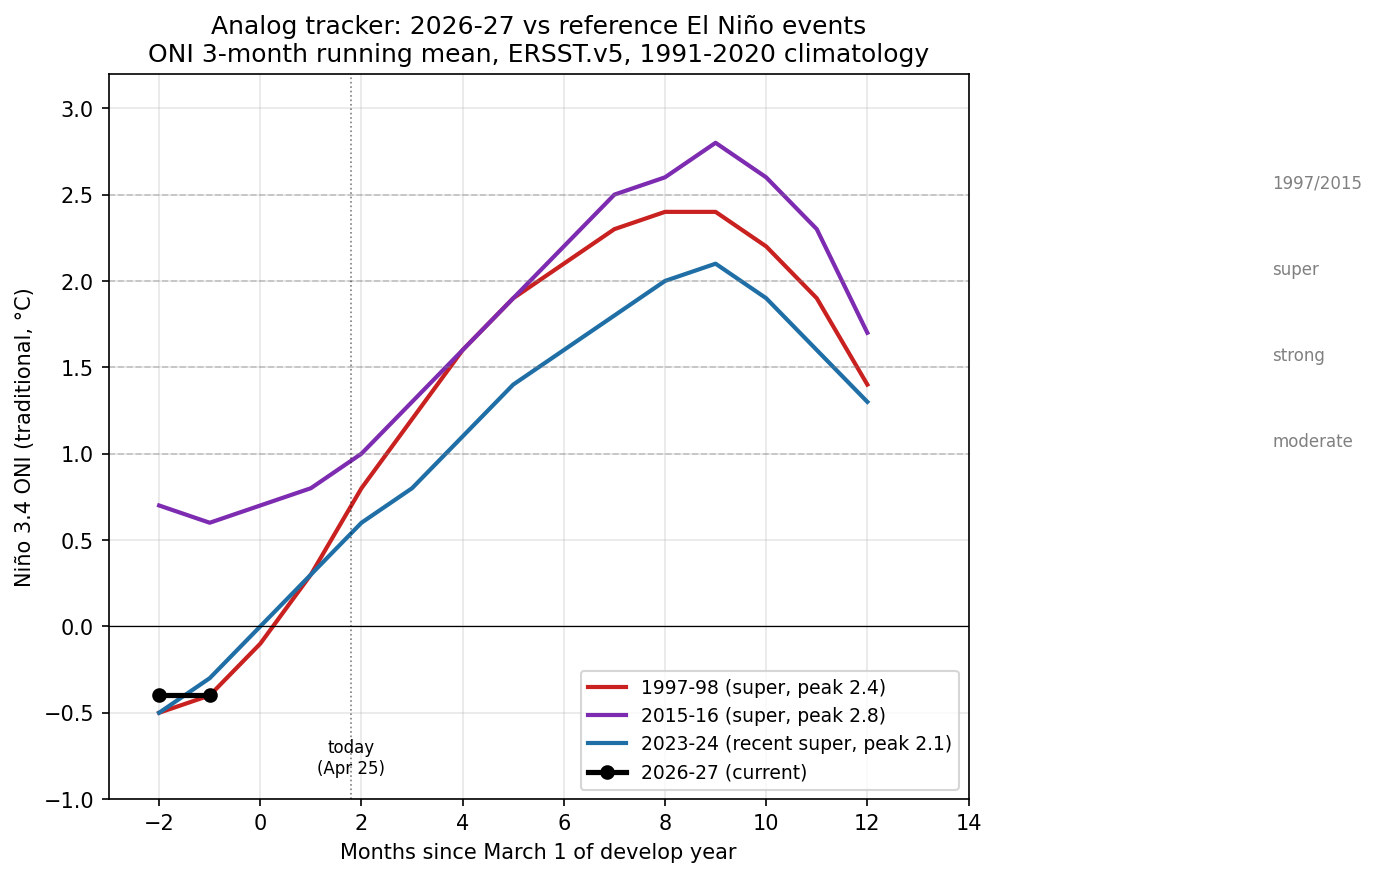
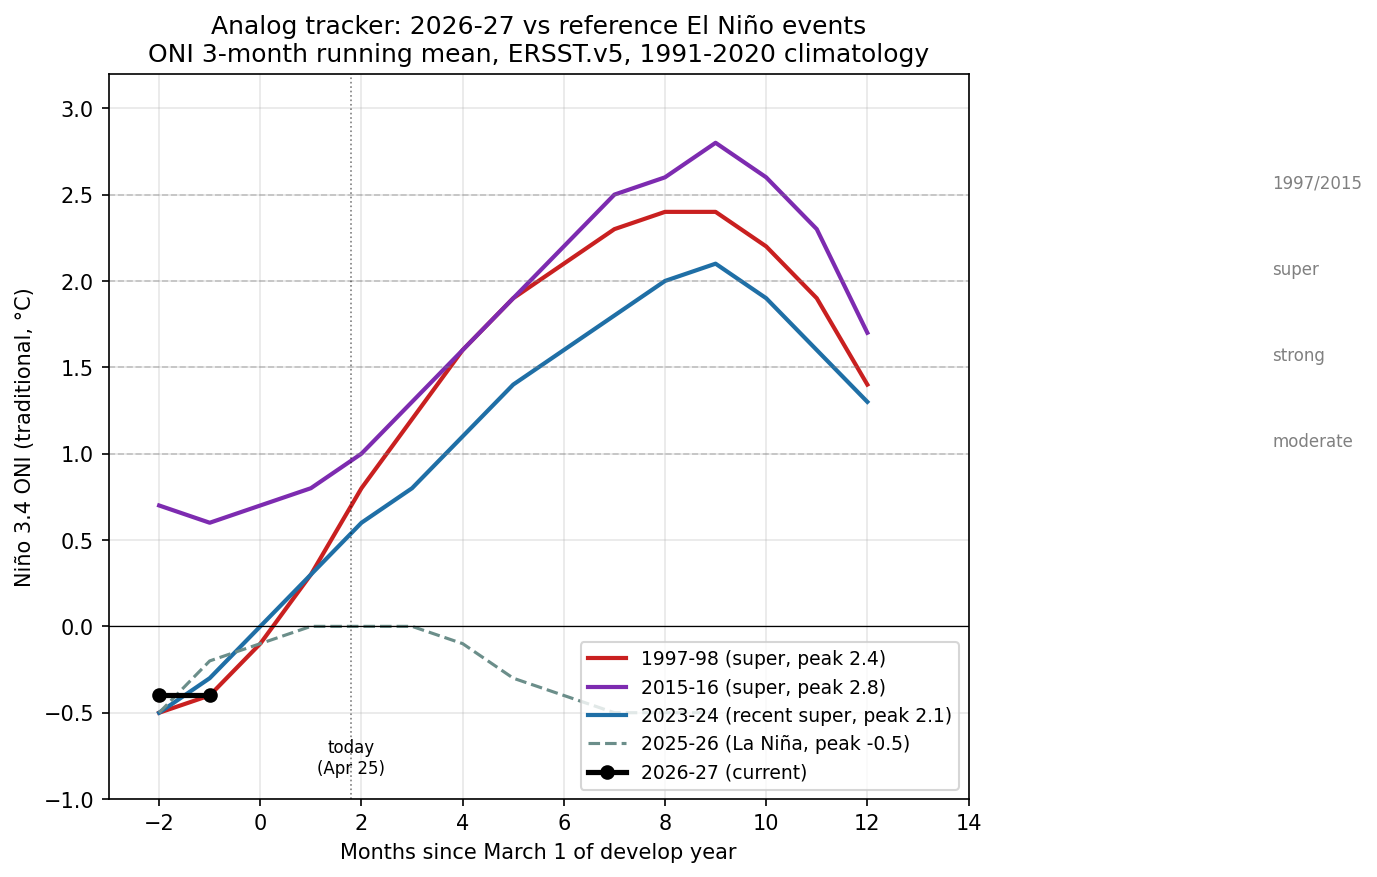
analog: add 2025-26 La Niña trace as a non-developing-year reference
Sourced 2025 ONI from CPC's oni.ascii.txt feed and appended 12
develop-year rows (DJF 2025 through NDJ 2025) to the historical
dataset. The 2024-25 winter was La Niña, peak around -0.5, so the
2025 trajectory plots as a flat negative trace through the
develop-year window. Useful negative-control context next to the
three super-event peers.

Style: muted blue-gray dashed line (1.5 px) to distinguish it
visually from the El Niño peer events without competing for
attention with the current 2026 trace.

Trajectory ends at month 9 (Dec 2025) because the 2026 develop-year
rows in the CSV belong to the 2026-27 event, not the 2025-26 one,
and a single row can only contribute to one event in load_trajectories.

diff --git a/analog.py b/analog.py
@@ -87,10 +87,11 @@ def load_trajectories():
     for r in rows:
         y = int(r["develop_year"])
         # Define event = first year of the develop-pair
-        if y in (1997, 2015, 2023, 2026):
+        if y in (1997, 2015, 2023, 2025, 2026):
             event_for_row[(y, r["season"])] = y
         elif y in (1998, 2016, 2024):
             event_for_row[(y, r["season"])] = y - 1
+        # 2025 has no decay-year rows; trajectory ends at NDJ (month 9).
         # 2026 has no follow-up rows yet, fine.
 
     series = {}
@@ -117,11 +118,13 @@ def plot(out_path: str):
         1997: {"color": "#c92020", "label": "1997-98 (super, peak 2.4)", "lw": 2.0},
         2015: {"color": "#7d2bb0", "label": "2015-16 (super, peak 2.8)", "lw": 2.0},
         2023: {"color": "#1f6fa6", "label": "2023-24 (recent super, peak 2.1)", "lw": 2.0},
+        2025: {"color": "#6b8e8a", "label": "2025-26 (La Niña, peak -0.5)",
+               "lw": 1.5, "linestyle": "--"},
         2026: {"color": "#000000", "label": "2026-27 (current)", "lw": 2.5,
                "marker": "o", "ms": 6},
     }
 
-    for event in [1997, 2015, 2023, 2026]:
+    for event in [1997, 2015, 2023, 2025, 2026]:
         if event not in series:
             continue
         xs = [pt[0] for pt in series[event]]
@@ -131,6 +134,8 @@ def plot(out_path: str):
         if "marker" in s:
             kwargs["marker"] = s["marker"]
             kwargs["markersize"] = s["ms"]
+        if "linestyle" in s:
+            kwargs["linestyle"] = s["linestyle"]
         ax.plot(xs, ys, **kwargs)
 
     # Bucket reference lines
